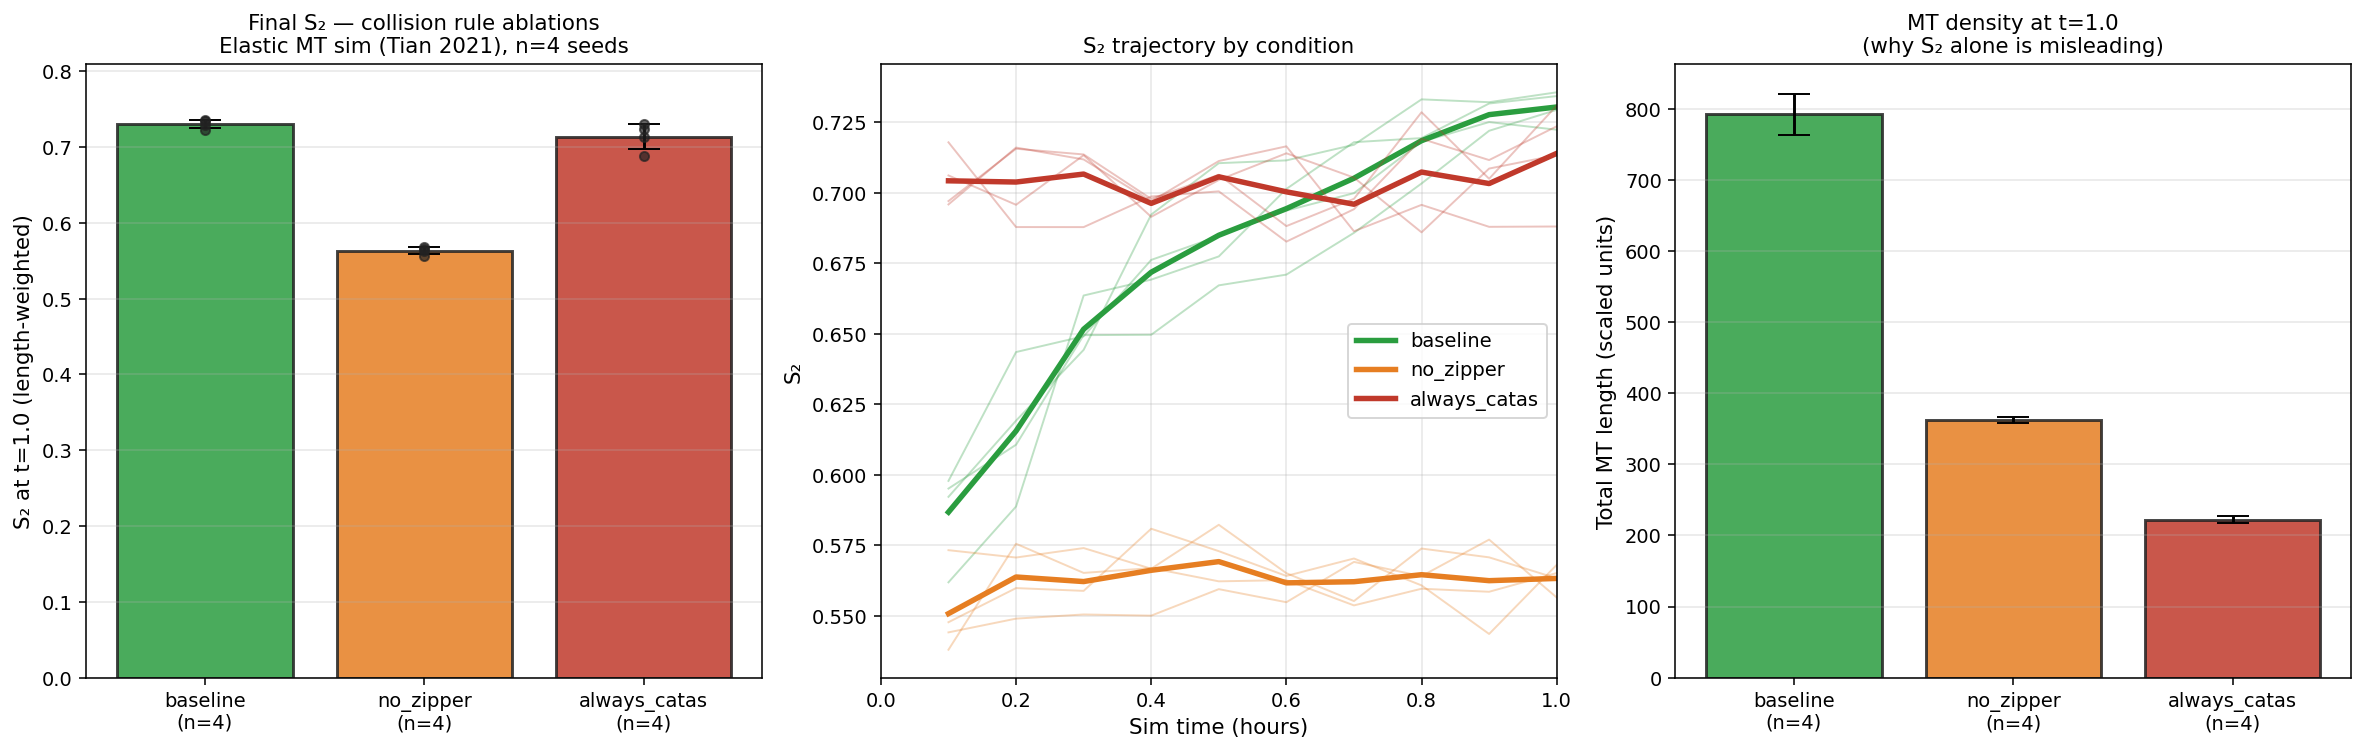
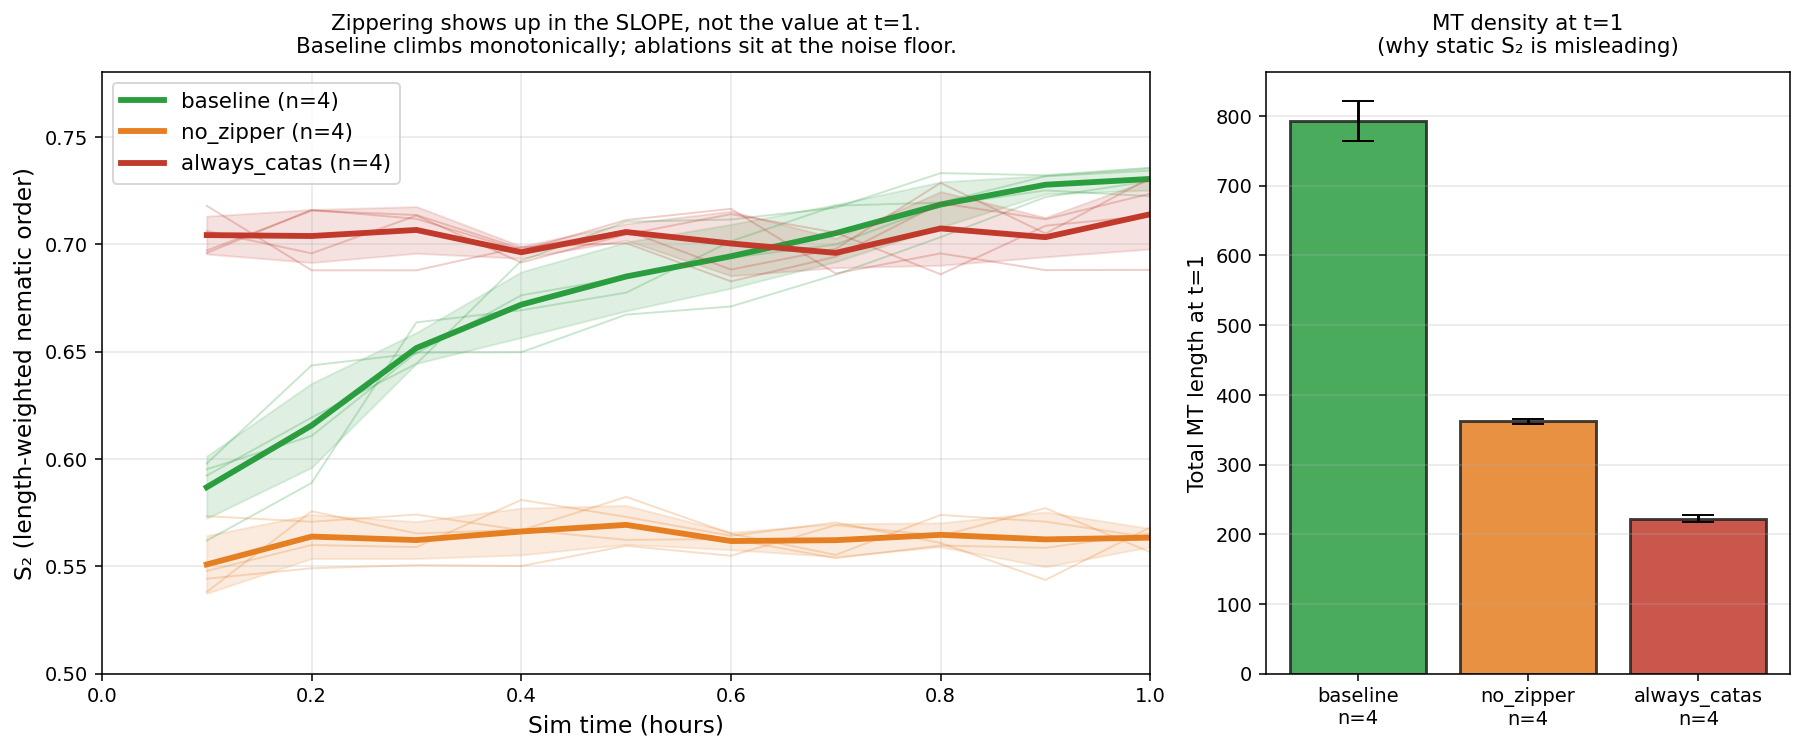
docs/findings.html v3: 2-panel plot, taglines, open questions, v2-proposal note
Four polish updates:

1. Replaced the 3-panel sweep_results.png with 2 panels (trajectory + density).
   The original's bar chart was misleading — baseline 0.73 vs always_catas 0.71
   looked like 'basically the same' when the real finding is in the trajectory
   shape. The new plot leads with the trajectory comparison and uses density
   as supporting context.

2. Added one-sentence taglines under each finding heading. Each finding now
   leads with its core claim before the supporting text. Skimmable.

3. New 'Open Questions & Caveats' section before 'What's Next' — front-foots
   the weaknesses: n=1 for SAE/MLP, t=1 not saturation, only BY-2 default
   mode, bundle bookkeeping refactor pending, no comparison to Tim's published
   numbers.

4. Noted that GH200_PROPOSAL_V2.md is now partially obsolete — its Phase 2
   (2×2 nucleation control via sample_angle patch) targets a code path that
   doesn't execute in default BY-2 mode (finding 4).

The doc is now more honest about its scope and easier to skim. The
underlying findings haven't changed.

diff --git a/docs/findings.html b/docs/findings.html
@@ -40,6 +40,8 @@
   .callout.red   { background: #fff5f5; border-left-color: #c0392b; }
   .callout strong { color: #111; }
   pre { background: #f4f6f8; border: 1px solid #dde; border-radius: 5px; padding: 0.75rem 1rem; font-family: "SF Mono","Fira Code","Consolas",monospace; font-size: 0.83rem; overflow-x: auto; color: #222; line-height: 1.5; margin: 0.5rem 0 1rem; }
+  .lede { background: #f9f9fd; border-left: 3px solid #2c5aa0; padding: 0.7rem 1rem; margin: 0.5rem 0 1.25rem; font-size: 0.96rem; color: #222; border-radius: 0 4px 4px 0; }
+  .lede strong { color: #2c5aa0; }
   footer { margin-top: 3rem; padding-top: 1.5rem; border-top: 1px solid #dde; font-size: 0.8rem; color: #999; font-family: "SF Mono","Fira Code","Consolas",monospace; }
   footer a { color: #2c5aa0; text-decoration: none; }
 </style>
@@ -70,18 +72,19 @@
   <section>
     <h2>Finding 1 — Zippering Lives in the Time Course</h2>
 
-    <p>Three conditions, four seeds each, 1 sim-hour. The bar chart on the left is what we'd been comparing all morning — and it almost hides the result. Look at the middle panel.</p>
+    <p class="lede"><strong>In one sentence:</strong> the static S₂ at t=1 is the same in baseline and always_catas because static S₂ at low density is dominated by sample noise; the real zippering signal is in the temporal slope of S₂, not its value.</p>
+
+    <p>Three conditions, four seeds each, 1 sim-hour.</p>
 
     <div class="figure">
-      <img src="sweep_results.png" alt="Three-panel sweep results: S₂ bars, S₂ trajectories, MT density">
+      <img src="sweep_results.png" alt="S₂ trajectory by condition + MT density bar chart">
       <div class="caption">
-        <strong>Left:</strong> Final S₂ at t=1hr — baseline 0.73, no_zipper 0.56, always_catas 0.71.
-        <strong>Middle:</strong> The trajectories tell the real story. Baseline climbs monotonically from 0.58 to 0.73. no_zipper (orange) is flat. always_catas (red) is flat at a higher value.
-        <strong>Right:</strong> MT density at t=1 — baseline 790, no_zipper 360, always_catas 220.
+        <strong>Left (trajectory):</strong> Each thin line is one seed; thick line is the mean. Baseline (green) climbs monotonically from 0.58 to 0.73. no_zipper (orange) sits at the noise floor ~0.56 — completely flat. always_catas (red) sits at a different noise floor ~0.71 — also flat. The static value of S₂ at t=1 is uninformative; the <em>slope</em> is the zippering signal.
+        <strong>Right (density):</strong> MT density at t=1 — baseline 790, no_zipper 360, always_catas 220. The density gradient explains the static-S₂ gradient: fewer MTs → noisier per-region order → higher spurious S₂.
       </div>
     </div>
 
-    <p>The bar chart suggests <code>always_catas</code> is only ~3% below baseline. The trajectory shows something completely different: baseline is <em>moving</em>, the other two have <em>arrived already</em>. At t=0.1 hr, all three conditions are within ~0.04 of each other. By t=1.0 hr, only baseline has changed.</p>
+    <p>At t=0.1 hr all three conditions are within ~0.04 of each other (~0.56–0.70). By t=1.0 hr, <em>only baseline has moved.</em> Same starting noise floor, decisive difference in dynamics.</p>
 
     <div class="callout green">
       <strong>The headline:</strong> Zippering's contribution isn't a constant +X added to S₂. It's a <em>rate</em> — every shallow-angle collision bumps two MTs into co-alignment, and over time these bundles compound. Without zippering, MTs collide and either pass through or die, so the array's orientation distribution stays close to its nucleation distribution forever.
@@ -93,6 +96,8 @@
   <!-- ─────────── FINDING 2: SAE ─────────── -->
   <section>
     <h2>Finding 2 — SAE Rediscovers Orientation From Scratch</h2>
+
+    <p class="lede"><strong>In one sentence:</strong> an unsupervised SAE trained on raw MT geometry independently picks orientation (your Ω parameter) as the natural feature axis — confirming that Ω, not S₂, is the primitive description and S₂ is a derived statistic.</p>
 
     <p>Same data, second angle of attack. We pulled <strong>10,124 per-region snapshots</strong> from all three trajectories and trained a 32-feature sparse autoencoder on raw angle histograms. No supervision. No knowledge of S₂. No knowledge of Ω.</p>
 
@@ -119,9 +124,11 @@
 
   <!-- ─────────── FINDING 3: NEURAL SURROGATE ─────────── -->
   <section>
-    <h2>Finding 3 — A Neural Surrogate That Works, And the Lesson When It Doesn't</h2>
+    <h2>Finding 3 — A 99.2%-Accurate Surrogate Still Breaks the Simulator</h2>
 
-    <p>The natural next step: instead of running Tim's collision rule as Python code, can we learn it as a neural network and plug the network into the simulator? <strong>Yes — and no.</strong></p>
+    <p class="lede"><strong>In one sentence:</strong> a 1,446-parameter MLP learns Tim's collision rule to 99.2% accuracy in seconds, but plugging it into the simulator crashes the bundle bookkeeping after ~150 seconds — the simulator is intolerant of approximation, which is the deeper architectural finding.</p>
+
+    <p>The natural next step: instead of running Tim's collision rule as Python code, can we learn it as a neural network and plug the network into the simulator? <strong>Yes at the function level — no end-to-end.</strong></p>
 
     <h3>The MLP at the function level</h3>
 
@@ -177,7 +184,9 @@ collision.decision.decide_outcome <span style="color:#c0392b">=</span> make_lear
 
   <!-- ─────────── FINDING 4: LDD_bool ─────────── -->
   <section>
-    <h2>Finding 4 — "Branched Nucleation Contamination" Was Wrong</h2>
+    <h2>Finding 4 — The S₂ Floor Is Pure Statistics, No Nucleation Story</h2>
+
+    <p class="lede"><strong>In one sentence:</strong> the apparent S₂ floor of ~0.55–0.71 at low MT density is small-sample statistical bias (length-weighted nematic order with ~5–10 MTs is naturally ~1/√N) — there is no competing "branched nucleation contamination" story because branched nucleation doesn't even fire in default BY-2 mode.</p>
 
     <p>Earlier in the day I argued that <code>always_catas</code>'s S₂ = 0.71 was inflated by Tim's <strong>branched nucleation</strong> mechanism (24% of new MTs nucleate at angles correlated with existing ones, contaminating the S₂ signal). I then spent hours trying to ablate this by monkey-patching <code>sample_angle</code> (the branched-angle generator) — and every patch silently failed. Bit-identical trajectories vs baseline.</p>
 
@@ -205,6 +214,25 @@ collision.decision.decide_outcome <span style="color:#c0392b">=</span> make_lear
     <h3>The methodology lesson</h3>
 
     <p>Three failed monkey-patches in one day, all with the same root cause: <strong>I patched the function before checking whether the function is reachable in the chosen sim configuration.</strong> The fix is the side-effect logging trick: instrument the function with a file write, run a short sim, check the log. If empty, the patch is patching dead code. Cheaper than reading 3000 lines of simulator.</p>
+  </section>
+
+  <!-- ─────────── OPEN QUESTIONS / CAVEATS ─────────── -->
+  <section>
+    <h2>Open Questions &amp; Caveats</h2>
+
+    <p>Front-footing the weaknesses so the conversation can move past them:</p>
+
+    <ul>
+      <li><strong>n=1 for the SAE and MLP.</strong> The SAE training data and MLP training pairs are all from seed=42. The 4-seed statistics only apply to the S₂ trajectory comparison. A multi-seed retraining of both models is the natural next step — neither model is expensive (seconds of training).</li>
+      <li><strong>t=1, not at saturation.</strong> Tim's thesis runs to 10 sim-hours and presumably saturates higher than 0.73. Our 1-hour comparison shows the <em>slope</em> finding cleanly but doesn't speak to long-time behavior. The 10× longer runs should sharpen everything — particularly whether always_catas's static S₂ erodes over time or stays anchored.</li>
+      <li><strong>Default BY-2 only.</strong> All experiments used <code>plant='by2'</code> + <code>LDD_bool=False</code>. The Arabidopsis 3-state DI config (<code>plant='arth'</code>) and the LDD nucleation mode are entirely untested. Tim's thesis likely has both — replicating the findings there would be the proper validation.</li>
+      <li><strong>Bundle bookkeeping refactor is still pending.</strong> The 2nd refactor (separate bundle state from collision logic) is what would unblock <code>always_zipper_plus</code>, <code>random</code>, the MLP surrogate, and probably <code>deflect_on=False</code>. We have not done it. Without it, several ablations of theoretical interest can't run.</li>
+      <li><strong>No comparison to Tim's published numbers.</strong> The S₂ trajectory we measure (0.58 → 0.73 over 1 hour) hasn't been cross-validated against his thesis or papers. If his published baseline differs significantly from ours, we have to explain the gap before claiming anything.</li>
+    </ul>
+
+    <div class="callout">
+      <strong>Note on the v2 proposal:</strong> the <code>GH200_PROPOSAL_V2.md</code> document we wrote earlier today is now partially obsolete. Its Phase 2 (2×2 nucleation control via <code>sample_angle</code> patch) attacks a mechanism that doesn't run in default BY-2 mode — finding 4 above. Phases 1 (distributional equivalence at 30 seeds × 10hr) and 4 (SAE on richer data) remain valid and should be the focus when remote compute returns.
+    </div>
   </section>
 
   <!-- ─────────── WHAT'S NEXT ─────────── -->
